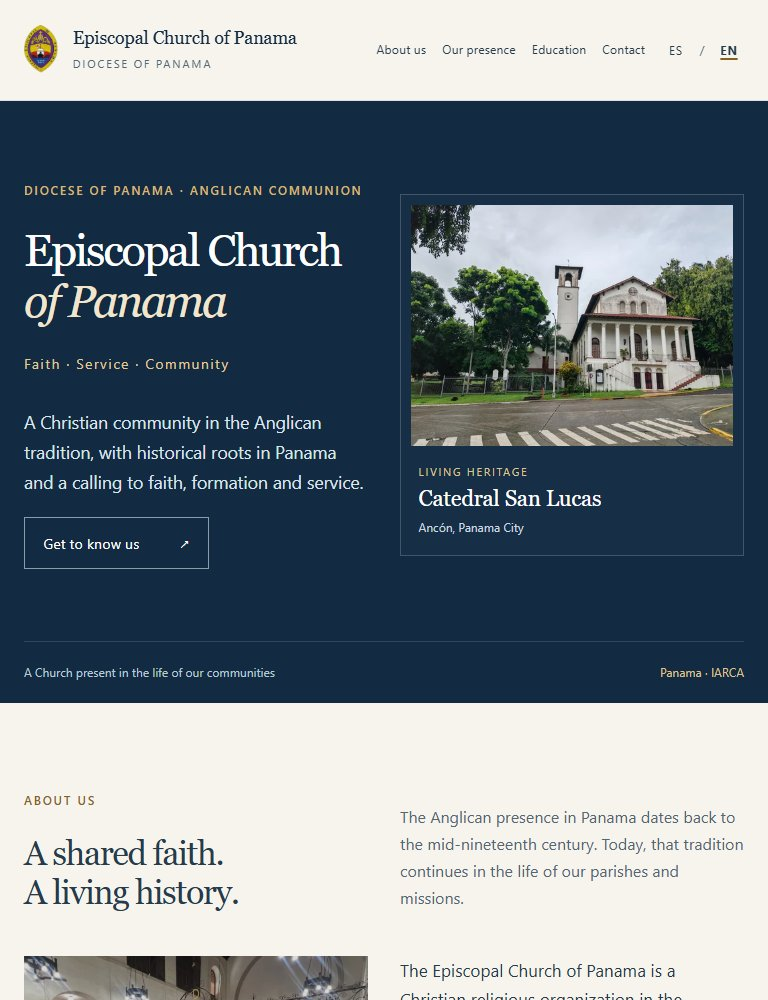
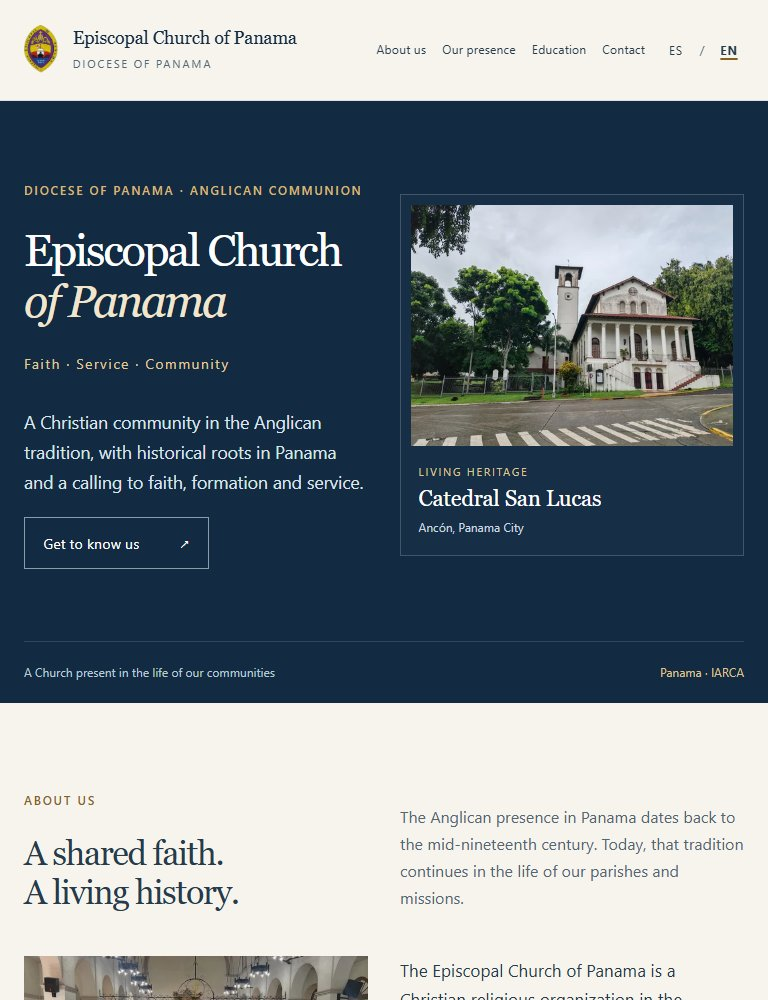
feat: refine diocesan imagery on homepage

Changed region(s): [[0.0312, 0.93, 0.5, 1.0]]

diff --git a/en/index.html b/en/index.html
@@ -53,7 +53,7 @@
       <div class="container">
         <div class="section-head"><div><span class="eyebrow">About us</span><h2 id="about-title">A shared faith.<br>A living history.</h2></div><p>The Anglican presence in Panama dates back to the mid-nineteenth century. Today, that tradition continues in the life of our parishes and missions.</p></div>
         <div class="about-grid"><figure class="about-photo">
-            <img src="../assets/img/web/catedral-san-lucas-interior-1280.webp" srcset="../assets/img/web/catedral-san-lucas-interior-640.webp 640w, ../assets/img/web/catedral-san-lucas-interior-1280.webp 1280w" sizes="(max-width: 760px) calc(100vw - 40px), (max-width: 1240px) 46vw, 548px" width="1280" height="960" alt="Interior of Catedral San Lucas, with arches, pews and people attending" loading="lazy" decoding="async">
+            <img src="../assets/img/web/catedral-san-lucas-interior-1280.webp" srcset="../assets/img/web/catedral-san-lucas-interior-640.webp 640w, ../assets/img/web/catedral-san-lucas-interior-1280.webp 1280w" sizes="(max-width: 760px) calc(100vw - 40px), (max-width: 1240px) 46vw, 548px" width="1280" height="724" alt="Procession between the pews of Catedral San Lucas towards the altar" loading="lazy" decoding="async">
             <figcaption>A place of faith and gathering · Catedral San Lucas</figcaption>
           </figure><div class="about-story"><div class="about-copy"><p>The Episcopal Church of Panama is a Christian religious organization in the Anglican tradition. Our identity is expressed through prayer, community life and pastoral care.</p><p>We are part of the Anglican Church of the Central American Region (IARCA), within the Anglican Communion.</p></div><aside class="affiliation" aria-labelledby="leadership-title"><p class="label">Episcopal leadership</p><h3 id="leadership-title">Serving the Diocese</h3><p class="leader">The Most Rev. Ramón Ovalle</p><p class="leader-title">Interim Bishop of the Episcopal Church of Panama<br>Primate of the Anglican Church of the Central American Region (IARCA)</p><p class="leader-note">Serving as Interim Bishop of Panama since April 2026.</p></aside></div></div>
       </div>
@@ -102,7 +102,7 @@
     </section>
 
     <section class="section community" id="community" aria-labelledby="community-title"><div class="container community-inner"><div><span class="eyebrow">Service to the community</span><h2 id="community-title">Walk together.<br>Share. Serve.</h2></div><p>Service grows out of the life of our communities. Through its parishes and missions, the Church offers pastoral care, formation and community support, strengthening the bonds between people.</p></div><div class="container community-gallery">
-        <figure><img src="../assets/img/web/encuentro-comunitario-1280.webp" srcset="../assets/img/web/encuentro-comunitario-640.webp 640w, ../assets/img/web/encuentro-comunitario-1280.webp 1280w" sizes="(max-width: 760px) calc(100vw - 40px), (max-width: 1240px) 46vw, 564px" width="1280" height="960" alt="People seated in a circle listen to a person standing in a room" loading="lazy" decoding="async"><figcaption>Community gathering</figcaption></figure>
+        <figure><img src="../assets/img/web/clero-diocesano-grupo-05-1280.webp" srcset="../assets/img/web/clero-diocesano-grupo-05-640.webp 640w, ../assets/img/web/clero-diocesano-grupo-05-1280.webp 1280w" sizes="(max-width: 760px) calc(100vw - 40px), (max-width: 1240px) 46vw, 564px" width="1280" height="960" alt="A group of clergy in liturgical vestments gathered in a sports hall" loading="lazy" decoding="async"><figcaption>Community gathering</figcaption></figure>
         <figure><img src="../assets/img/web/vida-diocesana-celebracion-1280.webp" srcset="../assets/img/web/vida-diocesana-celebracion-640.webp 640w, ../assets/img/web/vida-diocesana-celebracion-1280.webp 1280w" sizes="(max-width: 760px) calc(100vw - 40px), (max-width: 1240px) 46vw, 564px" width="1280" height="853" alt="People in liturgical vestments and attendees during a procession" loading="lazy" decoding="async"><figcaption>The life of our communities</figcaption></figure>
       </div>
     </section>

diff --git a/index.html b/index.html
@@ -65,7 +65,7 @@
         <div class="section-head"><div><span class="eyebrow">Quiénes somos</span><h2 id="about-title">Una fe compartida.<br>Una historia viva.</h2></div><p>La presencia anglicana en Panamá se remonta a mediados del siglo XIX. Hoy, esa tradición continúa en la vida de nuestras parroquias y misiones.</p></div>
         <div class="about-grid">
           <figure class="about-photo">
-            <img src="assets/img/web/catedral-san-lucas-interior-1280.webp" srcset="assets/img/web/catedral-san-lucas-interior-640.webp 640w, assets/img/web/catedral-san-lucas-interior-1280.webp 1280w" sizes="(max-width: 760px) calc(100vw - 40px), (max-width: 1240px) 46vw, 548px" width="1280" height="960" alt="Interior de la Catedral San Lucas, con arcos, bancas y asistentes" loading="lazy" decoding="async">
+            <img src="assets/img/web/catedral-san-lucas-interior-1280.webp" srcset="assets/img/web/catedral-san-lucas-interior-640.webp 640w, assets/img/web/catedral-san-lucas-interior-1280.webp 1280w" sizes="(max-width: 760px) calc(100vw - 40px), (max-width: 1240px) 46vw, 548px" width="1280" height="724" alt="Procesión entre las bancas de la Catedral San Lucas hacia el altar" loading="lazy" decoding="async">
             <figcaption>Un espacio de fe y encuentro · Catedral San Lucas</figcaption>
           </figure>
           <div class="about-story"><div class="about-copy"><p>La Iglesia Episcopal de Panamá es una organización religiosa cristiana de tradición anglicana. Nuestra identidad se expresa en la oración, la vida en comunidad y el acompañamiento pastoral.</p><p>Formamos parte de la Iglesia Anglicana de la Región Central de América (IARCA), dentro de la Comunión Anglicana.</p></div>
@@ -122,7 +122,7 @@
     <section class="section community" id="comunidad" aria-labelledby="community-title">
       <div class="container community-inner"><div><span class="eyebrow">Servicio a la comunidad</span><h2 id="community-title">Acompañar.<br>Compartir. Servir.</h2></div><p>El servicio nace de la vida de nuestras comunidades. A través de las parroquias y misiones, la Iglesia ofrece acompañamiento pastoral, formación y apoyo comunitario, fortaleciendo los vínculos entre las personas.</p></div>
     <div class="container community-gallery">
-        <figure><img src="assets/img/web/encuentro-comunitario-1280.webp" srcset="assets/img/web/encuentro-comunitario-640.webp 640w, assets/img/web/encuentro-comunitario-1280.webp 1280w" sizes="(max-width: 760px) calc(100vw - 40px), (max-width: 1240px) 46vw, 564px" width="1280" height="960" alt="Personas sentadas en círculo escuchan a una persona de pie en una sala" loading="lazy" decoding="async"><figcaption>Encuentro comunitario</figcaption></figure>
+        <figure><img src="assets/img/web/clero-diocesano-grupo-05-1280.webp" srcset="assets/img/web/clero-diocesano-grupo-05-640.webp 640w, assets/img/web/clero-diocesano-grupo-05-1280.webp 1280w" sizes="(max-width: 760px) calc(100vw - 40px), (max-width: 1240px) 46vw, 564px" width="1280" height="960" alt="Grupo de clero con vestiduras litúrgicas reunido en un recinto deportivo" loading="lazy" decoding="async"><figcaption>Encuentro comunitario</figcaption></figure>
         <figure><img src="assets/img/web/vida-diocesana-celebracion-1280.webp" srcset="assets/img/web/vida-diocesana-celebracion-640.webp 640w, assets/img/web/vida-diocesana-celebracion-1280.webp 1280w" sizes="(max-width: 760px) calc(100vw - 40px), (max-width: 1240px) 46vw, 564px" width="1280" height="853" alt="Personas con vestiduras litúrgicas y asistentes durante una procesión" loading="lazy" decoding="async"><figcaption>Vida de nuestras comunidades</figcaption></figure>
       </div>
     </section>

diff --git a/docs/curate_images.py b/docs/curate_images.py
@@ -48,11 +48,11 @@ for time, suffix, description, decision in facades:
 
 for old,new,description,origin,decision in [
 ('626449065_18556670014053081_5084294089189867489_n.jpg','interior-asamblea','Asistentes de pie en bancas, arcos y altar','Instagram oficial','respaldo'),
-('626723804_18556670092053081_6031592452908874287_n.jpg','interior-procesion','Procesión entre las bancas hacia el altar','Instagram oficial','respaldo'),
+('626723804_18556670092053081_6031592452908874287_n.jpg','interior-procesion','Procesión entre las bancas hacia el altar','Instagram oficial','usar'),
 ('627015037_18556670722053081_8310266187939695882_n.jpg','interior-liturgia','Celebrantes alrededor del altar durante la liturgia','Instagram oficial','respaldo'),
 ('628136157_1308438154645589_8403246888726780219_n.jpg','interior-estandartes','Asistentes con estandartes entre las bancas','Facebook oficial','respaldo'),
-('771892358_18614615908053081_8298882562867333621_n.jpg','interior-comunidad','Interior con arcos, luminarias, bancas y asistentes de pie','Instagram oficial','usar')]:
-    register('san-lucas-02',old,f'catedral-san-lucas-{new}.jpg',description,origin,decision,'Quiénes somos / historia / presencia', 'Sustituye el interior web eliminado; muestra arquitectura y comunidad' if decision=='usar' else 'Alternativa de vida litúrgica')
+('771892358_18614615908053081_8298882562867333621_n.jpg','interior-comunidad','Interior con arcos, luminarias, bancas y asistentes de pie','Instagram oficial','respaldo')]:
+    register('san-lucas-02',old,f'catedral-san-lucas-{new}.jpg',description,origin,decision,'Quiénes somos / historia / presencia', 'Selección final solicitada para Quiénes somos: procesión y vida litúrgica' if decision=='usar' else 'Alternativa de vida litúrgica')
 
 for old,new,description,origin,reason in [
 ('631571735_1311892790966792_276013069756403984_n.jpg','clero-diocesano-grupo-04.jpg','Grupo amplio de clero con vestiduras en un recinto deportivo','Facebook oficial','Grupo institucional amplio; fondo deportivo menos sobrio'),
@@ -61,7 +61,8 @@ for old,new,description,origin,reason in [
 ('clero-diocesano-01.jpg','clero-diocesano-01.jpg','Grupo de clero con vestiduras frente a una fachada','Facebook oficial','Se conserva como alternativa; sustituido en la galería por vida diocesana'),
 ('clero-diocesano-02.jpg','clero-diocesano-02.jpg','Grupo con vestiduras frente a una fachada de piedra y placa','Instagram oficial','Alternativa de grupo; no atribuir lugar o evento'),
 ('clero-diocesano-03.jpg','clero-diocesano-03.jpg','Grupo con vestiduras, incluida mitra, junto a una entrada con rejas','Facebook oficial','Mejor respaldo visual de liderazgo por cercanía y contexto litúrgico; sección textual conservada')]:
-    register('liderazgo',old,new,description,origin,'respaldo','Liderazgo / clero institucional',reason)
+    selected = new == 'clero-diocesano-grupo-05.jpg'
+    register('liderazgo',old,new,description,origin,'usar' if selected else 'respaldo','Servicio a la comunidad: imagen 1' if selected else 'Liderazgo / clero institucional','Selección final solicitada: presencia del clero en la portada; encuadre completo' if selected else reason)
 
 for old,new,description,origin,decision,reason in [
 ('808109881_1618323276671498_8252943004275149811_n.jpg','vida-diocesana-celebracion-01.jpg','Persona con mitra acompaña a asistentes durante una celebración','Facebook oficial','respaldo','Buen registro pastoral; escena más cerrada'),
@@ -69,21 +70,28 @@ for old,new,description,origin,decision,reason in [
 ('CLP-0930.jpg.jpeg','vida-diocesana-celebracion-03.jpg','Celebrante con vestiduras en un ambón junto a flores y banderas','archivo institucional','respaldo','Alternativa de celebración; menos representativa de comunidad'),
 ('celebracion-liturgica-01.jpg','celebracion-liturgica-01.jpg','Celebrante en ambón y asistentes en primer plano','Facebook oficial','respaldo','Alternativa de vida de fe'),
 ('encuentro-comunitario-01.jpg','encuentro-comunitario-01.jpg','Grupo reunido en sala con una persona de pie dirigiéndose al grupo','Facebook oficial','respaldo','Alternativa del encuentro'),
-('encuentro-comunitario-02.jpg','encuentro-comunitario-02.jpg','Personas sentadas en círculo escuchan a una persona de pie','Instagram oficial','usar','Se mantiene la imagen actual: encuadre limpio y comunidad visible'),
+('encuentro-comunitario-02.jpg','encuentro-comunitario-02.jpg','Personas sentadas en círculo escuchan a una persona de pie','Instagram oficial','respaldo','Conservada como respaldo; retirada de la home por selección final solicitada'),
 ('reunion-comunitaria-01.jpg','reunion-comunitaria-01.jpg','Personas sentadas alrededor de mesas en una sala','Facebook oficial','respaldo','Alternativa para formación y reuniones')]:
     register('vida-diocesana',old,new,description,origin,decision,'Vida diocesana / servicio / comunidad',reason)
 
 copies=[]
+previous_path=ROOT/'docs/verificacion-imagenes/curacion.json'
+previous=json.loads(previous_path.read_text(encoding='utf-8'))['generated'] if previous_path.exists() else []
+regenerated=0
 for folder,name,stem,widths in [
 ('catedral-san-lucas','catedral-san-lucas-fachada-principal.jpg','catedral-san-lucas-fachada',[320,480,768,1280]),
-('san-lucas-02','catedral-san-lucas-interior-comunidad.jpg','catedral-san-lucas-interior',[640,1280]),
+('san-lucas-02','catedral-san-lucas-interior-procesion.jpg','catedral-san-lucas-interior',[640,1280]),
+('liderazgo','clero-diocesano-grupo-05.jpg','clero-diocesano-grupo-05',[640,1280]),
 ('vida-diocesana','vida-diocesana-celebracion-02.jpg','vida-diocesana-celebracion',[640,1280])]:
     with Image.open(BASE/folder/name) as original:
         im=ImageOps.exif_transpose(original).convert('RGB')
         for width in widths:
             height=round(im.height*width/im.width)
             target=WEB/f'{stem}-{width}.webp'
-            im.resize((width,height),Image.Resampling.LANCZOS).save(target,'WEBP',quality=86,method=6)
+            matching=next((c for c in previous if c['name']==target.relative_to(ROOT).as_posix() and c['source']==f'{folder}/{name}'),None)
+            if not (matching and target.exists()):
+                im.resize((width,height),Image.Resampling.LANCZOS).save(target,'WEBP',quality=86,method=6)
+                regenerated += 1
             copies.append(dict(name=target.relative_to(ROOT).as_posix(),width=width,height=height,bytes=target.stat().st_size,source=f'{folder}/{name}'))
 
 # Retire derivatives of the removed web originals and the unused clergy image.
@@ -100,17 +108,18 @@ for language,relative in [('es','index.html'),('en','en/index.html')]:
             tag=re.sub(r'srcset="[^"]+"',f'srcset="'+', '.join(f'{prefix}assets/img/web/catedral-san-lucas-fachada-{w}.webp {w}w' for w in [320,480,768,1280])+'"',tag)
             tag=tag.replace('width="768" height="512"','width="1280" height="960"')
         elif 'catedral-san-lucas-interior-' in tag:
-            tag=tag.replace('interior-1080','interior-1280').replace('1080w','1280w').replace('width="1080" height="811"','width="1280" height="960"')
-        elif 'clero-diocesano-' in tag:
-            tag=tag.replace('clero-diocesano-960','vida-diocesana-celebracion-1280').replace('clero-diocesano-480','vida-diocesana-celebracion-640').replace('480w','640w').replace('960w','1280w').replace('width="960" height="720"','width="1280" height="853"')
-            tag=re.sub(r'alt="[^"]*"','alt="'+('Personas con vestiduras litúrgicas y asistentes durante una procesión' if language=='es' else 'People in liturgical vestments and attendees during a procession')+'"',tag)
+            tag=re.sub(r'width="[0-9]+" height="[0-9]+"','width="1280" height="724"',tag)
+            tag=re.sub(r'alt="[^"]*"','alt="'+('Procesión entre las bancas de la Catedral San Lucas hacia el altar' if language=='es' else 'Procession between the pews of Catedral San Lucas towards the altar')+'"',tag)
+        elif 'encuentro-comunitario-' in tag:
+            tag=tag.replace('encuentro-comunitario-','clero-diocesano-grupo-05-')
+            tag=re.sub(r'alt="[^"]*"','alt="'+('Grupo de clero con vestiduras litúrgicas reunido en un recinto deportivo' if language=='es' else 'A group of clergy in liturgical vestments gathered in a sports hall')+'"',tag)
         html=html.replace(match.group(),tag)
     p.write_text(html,encoding='utf-8',newline='\n')
 
 lines=['# Inventario de imágenes institucionales — 3 de octubre de 2026','',
 '34 originales revisados visualmente. Renombrados sin alterar sus bytes; dimensiones tras orientación EXIF. Tamaños en bytes. Ninguna imagen externa incorporada. Las procedencias sociales son **probables**, inferidas del patrón del nombre actual o del nombre histórico del inventario anterior; la oficialidad está confirmada por el usuario, pero no se dispone del enlace de cada publicación. No se identifican personas por apariencia.','',
 '## Selección editorial','',
-'- Hero desktop y móvil: `catedral-san-lucas/catedral-san-lucas-fachada-principal.jpg` (antes `IMG_20261003_072842.jpg`). Misma foto horizontal: torre y fachada completas, sin recortes; no hace falta una composición móvil diferente.','- Quiénes somos: `san-lucas-02/catedral-san-lucas-interior-comunidad.jpg`. Sustituye el interior web eliminado.','- Liderazgo: presentación textual conservada sin rediseño. Mejor respaldo: `liderazgo/clero-diocesano-03.jpg`. El encuentro de dos personas se conserva sin atribuir roles individuales no documentados.','- Comunidad: `vida-diocesana/encuentro-comunitario-02.jpg` y `vida-diocesana/vida-diocesana-celebracion-02.jpg`. Se conservan los pies de foto y copys aprobados.','- 4 usar, 25 respaldo, 5 no usar. «No usar» significa excluida del sitio, conservada en archivo; no se borran las fotos propias redundantes.','']
+'- Hero desktop y móvil: `catedral-san-lucas/catedral-san-lucas-fachada-principal.jpg` (antes `IMG_20261003_072842.jpg`). Misma foto horizontal: torre y fachada completas, sin recortes; no hace falta una composición móvil diferente.','- Quiénes somos: `san-lucas-02/catedral-san-lucas-interior-procesion.jpg`. Selección final solicitada: presencia del clero y vida litúrgica.','- Liderazgo: presentación textual conservada sin rediseño. Mejor respaldo: `liderazgo/clero-diocesano-03.jpg`. El encuentro de dos personas se conserva sin atribuir roles individuales no documentados.','- Comunidad: `liderazgo/clero-diocesano-grupo-05.jpg` (imagen 1) y `vida-diocesana/vida-diocesana-celebracion-02.jpg` (imagen 2). Se conservan los pies de foto y copys aprobados.','- Respaldo sin uso en la home: `liderazgo-encuentro-institucional.jpg`, `encuentro-comunitario-02.jpg` y `reunion-comunitaria-01.jpg`.','- 4 usar, 25 respaldo, 5 no usar. «No usar» significa excluida del sitio, conservada en archivo; no se borran las fotos propias redundantes.','']
 for folder in ['catedral-san-lucas','san-lucas-02','liderazgo','vida-diocesana']:
     items=[e for e in entries if e['folder']==folder]
     lines += [f'## {folder} — {len(items)} imágenes','',f'Carpeta: `assets/img/iglesia-episcopal/{folder}/`','',
@@ -119,7 +128,7 @@ for folder in ['catedral-san-lucas','san-lucas-02','liderazgo','vida-diocesana']
         orientation='horizontal' if e['width']>e['height'] else 'vertical'
         lines.append(f"| {e['original']} → **{e['name']}** | {e['width']} × {e['height']} | {orientation} | {e['bytes']} | {e['description']} | {e['origin']} | {e['use']} | **{e['decision']}**: {e['reason']} |")
     lines.append('')
-lines += ['## WebP de publicación','', 'Calidad 86, Lanczos, sin ampliar ni recortar. Originales intactos. Hero: `srcset` de 320/480/768/1280 px; dimensión intrínseca 4:3, prioridad alta. Resto: carga diferida, dimensiones explícitas. Sin cambios de CSS ni layout.','', '| Archivo | Dimensiones | Bytes | Fuente |','|---|---|---:|---|']
+lines += ['## WebP locales de publicación y respaldo','', 'Selección final: solo se regeneran los WebP cuyo original cambia. Las versiones anteriores de encuentro comunitario se conservan como respaldo sin referencia en la home. Calidad 86, Lanczos, sin ampliar ni recortar. Originales intactos. Hero: `srcset` de 320/480/768/1280 px; dimensión intrínseca 4:3, prioridad alta. Resto: carga diferida, dimensiones explícitas. Sin cambios de CSS ni layout.','', '| Archivo | Dimensiones | Bytes | Fuente |','|---|---|---:|---|']
 for p in sorted(WEB.glob('*.webp')):
     with Image.open(p) as im: width,height=im.size
     source=next((c['source'] for c in copies if Path(c['name']).name==p.name),'vida-diocesana/encuentro-comunitario-02.jpg' if 'encuentro' in p.name else 'assets/img/logo-iglesia-episcopal.png (sin pérdida)')
@@ -134,4 +143,4 @@ for line in prior.splitlines():
         lines.append(f'| {cells[1]} | {cells[2]} |')
 (ROOT/'docs/inventario-imagenes.md').write_text('\n'.join(lines)+'\n',encoding='utf-8')
 (ROOT/'docs/verificacion-imagenes/curacion.json').write_text(json.dumps({'originals':entries,'generated':copies},ensure_ascii=False,indent=2)+'\n',encoding='utf-8')
-print(f'{len(entries)} inventariadas; {sum(e["original"]!=e["name"] for e in entries)} renombradas; {len(copies)} WebP generados')
+print(f'{len(entries)} inventariadas; {sum(e["original"]!=e["name"] for e in entries)} renombradas; {regenerated} WebP generados o regenerados; {len(copies)} derivados de fotos usadas')

diff --git a/docs/inventario-imagenes.md b/docs/inventario-imagenes.md
@@ -5,9 +5,10 @@
 ## Selección editorial
 
 - Hero desktop y móvil: `catedral-san-lucas/catedral-san-lucas-fachada-principal.jpg` (antes `IMG_20261003_072842.jpg`). Misma foto horizontal: torre y fachada completas, sin recortes; no hace falta una composición móvil diferente.
-- Quiénes somos: `san-lucas-02/catedral-san-lucas-interior-comunidad.jpg`. Sustituye el interior web eliminado.
+- Quiénes somos: `san-lucas-02/catedral-san-lucas-interior-procesion.jpg`. Selección final solicitada: presencia del clero y vida litúrgica.
 - Liderazgo: presentación textual conservada sin rediseño. Mejor respaldo: `liderazgo/clero-diocesano-03.jpg`. El encuentro de dos personas se conserva sin atribuir roles individuales no documentados.
-- Comunidad: `vida-diocesana/encuentro-comunitario-02.jpg` y `vida-diocesana/vida-diocesana-celebracion-02.jpg`. Se conservan los pies de foto y copys aprobados.
+- Comunidad: `liderazgo/clero-diocesano-grupo-05.jpg` (imagen 1) y `vida-diocesana/vida-diocesana-celebracion-02.jpg` (imagen 2). Se conservan los pies de foto y copys aprobados.
+- Respaldo sin uso en la home: `liderazgo-encuentro-institucional.jpg`, `encuentro-comunitario-02.jpg` y `reunion-comunitaria-01.jpg`.
 - 4 usar, 25 respaldo, 5 no usar. «No usar» significa excluida del sitio, conservada en archivo; no se borran las fotos propias redundantes.
 
 ## catedral-san-lucas — 16 imágenes
@@ -40,10 +41,10 @@ Carpeta: `assets/img/iglesia-episcopal/san-lucas-02/`
 | Nombre anterior → actual | Dimensiones | Orientación | Bytes | Descripción objetiva | Procedencia probable | Uso sugerido | Decisión / motivo |
 |---|---|---|---:|---|---|---|---|
 | 626449065_18556670014053081_5084294089189867489_n.jpg → **catedral-san-lucas-interior-asamblea.jpg** | 1440 × 814 | horizontal | 174077 | Asistentes de pie en bancas, arcos y altar | Instagram oficial | Quiénes somos / historia / presencia | **respaldo**: Alternativa de vida litúrgica |
-| 626723804_18556670092053081_6031592452908874287_n.jpg → **catedral-san-lucas-interior-procesion.jpg** | 1440 × 814 | horizontal | 198035 | Procesión entre las bancas hacia el altar | Instagram oficial | Quiénes somos / historia / presencia | **respaldo**: Alternativa de vida litúrgica |
+| 626723804_18556670092053081_6031592452908874287_n.jpg → **catedral-san-lucas-interior-procesion.jpg** | 1440 × 814 | horizontal | 198035 | Procesión entre las bancas hacia el altar | Instagram oficial | Quiénes somos / historia / presencia | **usar**: Selección final solicitada para Quiénes somos: procesión y vida litúrgica |
 | 627015037_18556670722053081_8310266187939695882_n.jpg → **catedral-san-lucas-interior-liturgia.jpg** | 1440 × 814 | horizontal | 117574 | Celebrantes alrededor del altar durante la liturgia | Instagram oficial | Quiénes somos / historia / presencia | **respaldo**: Alternativa de vida litúrgica |
 | 628136157_1308438154645589_8403246888726780219_n.jpg → **catedral-san-lucas-interior-estandartes.jpg** | 1280 × 720 | horizontal | 138388 | Asistentes con estandartes entre las bancas | Facebook oficial | Quiénes somos / historia / presencia | **respaldo**: Alternativa de vida litúrgica |
-| 771892358_18614615908053081_8298882562867333621_n.jpg → **catedral-san-lucas-interior-comunidad.jpg** | 3024 × 2268 | horizontal | 529294 | Interior con arcos, luminarias, bancas y asistentes de pie | Instagram oficial | Quiénes somos / historia / presencia | **usar**: Sustituye el interior web eliminado; muestra arquitectura y comunidad |
+| 771892358_18614615908053081_8298882562867333621_n.jpg → **catedral-san-lucas-interior-comunidad.jpg** | 3024 × 2268 | horizontal | 529294 | Interior con arcos, luminarias, bancas y asistentes de pie | Instagram oficial | Quiénes somos / historia / presencia | **respaldo**: Alternativa de vida litúrgica |
 
 ## liderazgo — 6 imágenes
 
@@ -52,7 +53,7 @@ Carpeta: `assets/img/iglesia-episcopal/liderazgo/`
 | Nombre anterior → actual | Dimensiones | Orientación | Bytes | Descripción objetiva | Procedencia probable | Uso sugerido | Decisión / motivo |
 |---|---|---|---:|---|---|---|---|
 | 631571735_1311892790966792_276013069756403984_n.jpg → **clero-diocesano-grupo-04.jpg** | 2048 × 1536 | horizontal | 431308 | Grupo amplio de clero con vestiduras en un recinto deportivo | Facebook oficial | Liderazgo / clero institucional | **respaldo**: Grupo institucional amplio; fondo deportivo menos sobrio |
-| 631939145_1311894000966671_6856171340860385978_n.jpg → **clero-diocesano-grupo-05.jpg** | 2048 × 1536 | horizontal | 378703 | Grupo de clero en recinto deportivo; teléfono visible en primer plano | Facebook oficial | Liderazgo / clero institucional | **respaldo**: Respaldo documental; teléfono en primer plano |
+| 631939145_1311894000966671_6856171340860385978_n.jpg → **clero-diocesano-grupo-05.jpg** | 2048 × 1536 | horizontal | 378703 | Grupo de clero en recinto deportivo; teléfono visible en primer plano | Facebook oficial | Servicio a la comunidad: imagen 1 | **usar**: Selección final solicitada: presencia del clero en la portada; encuadre completo |
 | 680219048_18581680249053081_832038721497099236_n.jpg → **liderazgo-encuentro-institucional.jpg** | 695 × 926 | vertical | 85141 | Dos personas, una con vestiduras litúrgicas, junto a una entrada | Instagram oficial | Liderazgo / clero institucional | **respaldo**: Material institucional validado por el usuario; no se vinculan personas a roles individuales sin identificación documental |
 | clero-diocesano-01.jpg → **clero-diocesano-01.jpg** | 960 × 720 | horizontal | 91823 | Grupo de clero con vestiduras frente a una fachada | Facebook oficial | Liderazgo / clero institucional | **respaldo**: Se conserva como alternativa; sustituido en la galería por vida diocesana |
 | clero-diocesano-02.jpg → **clero-diocesano-02.jpg** | 1440 × 962 | horizontal | 270612 | Grupo con vestiduras frente a una fachada de piedra y placa | Instagram oficial | Liderazgo / clero institucional | **respaldo**: Alternativa de grupo; no atribuir lugar o evento |
@@ -69,12 +70,12 @@ Carpeta: `assets/img/iglesia-episcopal/vida-diocesana/`
 | CLP-0930.jpg.jpeg → **vida-diocesana-celebracion-03.jpg** | 1800 × 1200 | horizontal | 1666878 | Celebrante con vestiduras en un ambón junto a flores y banderas | archivo institucional | Vida diocesana / servicio / comunidad | **respaldo**: Alternativa de celebración; menos representativa de comunidad |
 | celebracion-liturgica-01.jpg → **celebracion-liturgica-01.jpg** | 1280 × 853 | horizontal | 84389 | Celebrante en ambón y asistentes en primer plano | Facebook oficial | Vida diocesana / servicio / comunidad | **respaldo**: Alternativa de vida de fe |
 | encuentro-comunitario-01.jpg → **encuentro-comunitario-01.jpg** | 2048 × 1536 | horizontal | 437219 | Grupo reunido en sala con una persona de pie dirigiéndose al grupo | Facebook oficial | Vida diocesana / servicio / comunidad | **respaldo**: Alternativa del encuentro |
-| encuentro-comunitario-02.jpg → **encuentro-comunitario-02.jpg** | 4032 × 3024 | horizontal | 696826 | Personas sentadas en círculo escuchan a una persona de pie | Instagram oficial | Vida diocesana / servicio / comunidad | **usar**: Se mantiene la imagen actual: encuadre limpio y comunidad visible |
+| encuentro-comunitario-02.jpg → **encuentro-comunitario-02.jpg** | 4032 × 3024 | horizontal | 696826 | Personas sentadas en círculo escuchan a una persona de pie | Instagram oficial | Vida diocesana / servicio / comunidad | **respaldo**: Conservada como respaldo; retirada de la home por selección final solicitada |
 | reunion-comunitaria-01.jpg → **reunion-comunitaria-01.jpg** | 1280 × 957 | horizontal | 142555 | Personas sentadas alrededor de mesas en una sala | Facebook oficial | Vida diocesana / servicio / comunidad | **respaldo**: Alternativa para formación y reuniones |
 
-## WebP de publicación
+## WebP locales de publicación y respaldo
 
-Calidad 86, Lanczos, sin ampliar ni recortar. Originales intactos. Hero: `srcset` de 320/480/768/1280 px; dimensión intrínseca 4:3, prioridad alta. Resto: carga diferida, dimensiones explícitas. Sin cambios de CSS ni layout.
+Selección final: solo se regeneran los WebP cuyo original cambia. Las versiones anteriores de encuentro comunitario se conservan como respaldo sin referencia en la home. Calidad 86, Lanczos, sin ampliar ni recortar. Originales intactos. Hero: `srcset` de 320/480/768/1280 px; dimensión intrínseca 4:3, prioridad alta. Resto: carga diferida, dimensiones explícitas. Sin cambios de CSS ni layout.
 
 | Archivo | Dimensiones | Bytes | Fuente |
 |---|---|---:|---|
@@ -82,8 +83,10 @@ Calidad 86, Lanczos, sin ampliar ni recortar. Originales intactos. Hero: `srcset
 | assets/img/web/catedral-san-lucas-fachada-320.webp | 320 × 240 | 21966 | catedral-san-lucas/catedral-san-lucas-fachada-principal.jpg |
 | assets/img/web/catedral-san-lucas-fachada-480.webp | 480 × 360 | 45662 | catedral-san-lucas/catedral-san-lucas-fachada-principal.jpg |
 | assets/img/web/catedral-san-lucas-fachada-768.webp | 768 × 576 | 113108 | catedral-san-lucas/catedral-san-lucas-fachada-principal.jpg |
-| assets/img/web/catedral-san-lucas-interior-1280.webp | 1280 × 960 | 141328 | san-lucas-02/catedral-san-lucas-interior-comunidad.jpg |
-| assets/img/web/catedral-san-lucas-interior-640.webp | 640 × 480 | 50312 | san-lucas-02/catedral-san-lucas-interior-comunidad.jpg |
+| assets/img/web/catedral-san-lucas-interior-1280.webp | 1280 × 724 | 160816 | san-lucas-02/catedral-san-lucas-interior-procesion.jpg |
+| assets/img/web/catedral-san-lucas-interior-640.webp | 640 × 362 | 53302 | san-lucas-02/catedral-san-lucas-interior-procesion.jpg |
+| assets/img/web/clero-diocesano-grupo-05-1280.webp | 1280 × 960 | 165264 | liderazgo/clero-diocesano-grupo-05.jpg |
+| assets/img/web/clero-diocesano-grupo-05-640.webp | 640 × 480 | 57572 | liderazgo/clero-diocesano-grupo-05.jpg |
 | assets/img/web/encuentro-comunitario-1280.webp | 1280 × 960 | 129776 | vida-diocesana/encuentro-comunitario-02.jpg |
 | assets/img/web/encuentro-comunitario-640.webp | 640 × 480 | 50310 | vida-diocesana/encuentro-comunitario-02.jpg |
 | assets/img/web/logo-iglesia-episcopal.webp | 423 × 590 | 245680 | assets/img/logo-iglesia-episcopal.png (sin pérdida) |
@@ -135,7 +138,7 @@ No se reintroducen `catedral-san-lucas-2-768x512.jpg`, `catedral-san-lucas-4.jpg
 
 ## Trazabilidad histórica conservada
 
-Nombres anteriores a esta tarea de los siete archivos ya semánticos; corresponden al inventario del commit `f95cc84`. Sus nombres actuales y bytes se mantienen.
+Nombres anteriores a esta tarea de los siete archivos ya semánticos, del inventario `f95cc84`. Sus nombres actuales y bytes se mantienen.
 
 | Nombre histórico | Ruta actual |
 |---|---|

diff --git a/docs/reporte-curacion-imagenes.md b/docs/reporte-curacion-imagenes.md
@@ -1,6 +1,6 @@
 # Reporte de curación institucional — 3 de octubre de 2026
 
-Actualización exclusivamente de imágenes y documentación. Sin rediseño, cambios de copys, DNS, GitHub Pages ni CNAME. No push.
+Selección final ajustada para dar más presencia al clero en la home. Actualización exclusivamente de imágenes y documentación. Sin rediseño, cambios de copys, DNS, GitHub Pages ni CNAME. Selección revisada y aprobada para publicación por el usuario.
 
 ## Inventario y decisiones
 
@@ -8,8 +8,8 @@ Actualización exclusivamente de imágenes y documentación. Sin rediseño, camb
 |---|---:|---:|---:|---:|---:|
 | catedral-san-lucas | 16 | 16 | 1 | 10 | 5 |
 | san-lucas-02 | 5 | 5 | 1 | 4 | 0 |
-| liderazgo | 6 | 3 | 0 | 6 | 0 |
-| vida-diocesana | 7 | 3 | 2 | 5 | 0 |
+| liderazgo | 6 | 3 | 1 | 5 | 0 |
+| vida-diocesana | 7 | 3 | 1 | 6 | 0 |
 | **Total** | **34** | **27** | **4** | **25** | **5** |
 
 La correspondencia completa anterior → actual, dimensiones, orientación, tamaño, procedencia probable, descripción, decisión y hashes de originales están en [inventario-imagenes.md](inventario-imagenes.md). Los siete nombres ya semánticos se mantienen, con su correspondencia histórica conservada. La oficialidad de las publicaciones sociales está confirmada por el usuario; la red concreta de cada archivo se registra como procedencia probable.
@@ -17,9 +17,11 @@ La correspondencia completa anterior → actual, dimensiones, orientación, tama
 ## Imágenes publicadas
 
 - Hero desktop **y móvil**: `catedral-san-lucas/catedral-san-lucas-fachada-principal.jpg`, antes `IMG_20261003_072842.jpg`, original propio 4064 × 3048. Misma composición horizontal completa; no requiere otra toma móvil. Se conserva el concepto «Patrimonio y Catedral» y los pies de foto aprobados.
-- Quiénes somos: `san-lucas-02/catedral-san-lucas-interior-comunidad.jpg`, antes `771892358_18614615908053081_8298882562867333621_n.jpg`. Interior actual con arquitectura y comunidad; sustituye la foto web eliminada.
-- Comunidad: se mantiene `vida-diocesana/encuentro-comunitario-02.jpg` y se añade `vida-diocesana/vida-diocesana-celebracion-02.jpg`, antes `CLP-0928.jpg.jpeg`, en el espacio visual ya existente.
+- Quiénes somos / About us: `san-lucas-02/catedral-san-lucas-interior-procesion.jpg`, antes `626723804_18556670092053081_6031592452908874287_n.jpg`. Sustituye la selección anterior interior-comunidad, conservada como respaldo.
+- Servicio a la comunidad / Service to the community: imagen 1 `liderazgo/clero-diocesano-grupo-05.jpg`; imagen 2 `vida-diocesana/vida-diocesana-celebracion-02.jpg`. Se mantienen la galería existente y sus textos aprobados; el texto alternativo describe cada nueva fotografía.
 - Liderazgo: se mantiene la sección textual. Mejor respaldo: `liderazgo/clero-diocesano-03.jpg`. El encuentro institucional de dos personas se conserva sin atribuir nombres ni roles individuales por apariencia.
+
+Sin uso en la home y conservadas como respaldo: `liderazgo-encuentro-institucional.jpg`, `encuentro-comunitario-02.jpg` y `reunion-comunitaria-01.jpg`.
 
 Los 25 respaldos se enumeran individualmente en el inventario. Los cinco excluidos del uso del sitio son las tomas propias antes terminadas en `072833`, `072921`, `072941`, `073047` y `073055`: respectivamente fachada-detalle, perspectiva-lateral-02, perspectiva-lateral-04, fachada-calle-vertical y fachada-jardin-vertical-03. Se conservan sus originales; son encuadres incompletos o variantes menos fuertes/redundantes.
 
@@ -27,15 +29,16 @@ Se respetan las cuatro fotografías web y la captura de liderazgo eliminadas ant
 
 ## Optimización y archivos
 
-Ocho WebP generados en `assets/img/web/`, calidad 86, sin ampliar ni recortar:
+Ajuste final: cuatro WebP preparados en `assets/img/web/`, calidad 86, sin ampliar ni recortar. Hero y celebración mantienen exactamente sus archivos anteriores:
 
-- `catedral-san-lucas-fachada-{320,480,768,1280}.webp`.
-- `catedral-san-lucas-interior-{640,1280}.webp`.
-- `vida-diocesana-celebracion-{640,1280}.webp`.
+- `catedral-san-lucas-interior-{640,1280}.webp`: regenerados desde interior-procesion, 640 × 362 y 1280 × 724.
+- `clero-diocesano-grupo-05-{640,1280}.webp`: nuevos, 640 × 480 y 1280 × 960.
+- Fachada: versiones existentes de 320/480/768/1280, intactas.
+- Celebración: versiones existentes de 640/1280, intactas.
 
-Tres sustituyen versiones existentes y cinco son nuevos. Se mantienen las dos versiones de encuentro comunitario y el logo sin pérdida. Los originales renombrados conservan sus bytes y hashes. Hero con prioridad alta y `srcset`; imágenes posteriores con carga diferida; todas tienen dimensiones explícitas. La vista previa social de ambos idiomas apunta a la nueva fachada local con dimensiones actualizadas.
+Dos sustituyen versiones existentes y dos son nuevos. Se mantienen las dos versiones de encuentro comunitario como respaldo sin uso en la home y el logo sin pérdida. Los originales renombrados conservan sus bytes y hashes. Hero con prioridad alta y `srcset`; imágenes posteriores con carga diferida; todas tienen dimensiones explícitas. La vista previa social de ambos idiomas apunta a la nueva fachada local con dimensiones actualizadas.
 
-Archivos afectados: `index.html`, `en/index.html`, `README.md`, `docs/inventario-imagenes.md`, imágenes originales y WebP. Se añaden este reporte, `docs/curate_images.py`, `docs/verify_images.cjs` y las evidencias en `docs/verificacion-imagenes/`. `assets/css/styles.css` y `assets/js/main.js` no cambian.
+Archivos afectados por este ajuste: `index.html`, `en/index.html`, `README.md` (recuento WebP), `docs/inventario-imagenes.md`, este reporte, `docs/curate_images.py`, cuatro WebP y las evidencias actualizadas en `docs/verificacion-imagenes/`. No se modifican los originales ni el script de verificación. `assets/css/styles.css` y `assets/js/main.js` no cambian.
 
 ## Validación
 
@@ -43,7 +46,7 @@ Diez comprobaciones en Edge mediante Playwright: ambos idiomas en **1440, 768, 3
 
 Revisión visual de capturas desktop y móvil, del resumen de los diez anchos y de la página completa: fachada y torre completas, encuadre sin recorte, ES y EN consistentes. Las imágenes respetan sus proporciones intrínsecas y reservan espacio durante la carga. Móvil usa 320 o 480 px a densidad 1×; 390 px a densidad 2× selecciona 768 px en lugar de 1280.
 
-Comprobación adicional: recursos y enlaces locales existentes, anclas válidas, texto institucional idéntico al commit inicial, 34 hashes de originales correctos, sin URLs localhost en las páginas y `git diff --check` correcto.
+Comprobación adicional: recursos y enlaces locales existentes, anclas válidas, texto institucional y estructura HTML idénticos a HEAD (4751351), salvo los atributos de las dos imágenes sustituidas, 34 hashes de originales correctos, sin URLs localhost en las páginas y `git diff --check` correcto.
 
 - [ES desktop completo](verificacion-imagenes/es-1440-completa.jpg)
 - [ES móvil completo](verificacion-imagenes/es-390-completa.jpg)
@@ -53,4 +56,4 @@ Comprobación adicional: recursos y enlaces locales existentes, anclas válidas,
 
[1 lines of base64/hex data omitted]
 
-Commit único solicitado: `feat: curate and update institutional imagery`. Su hash y el estado final se reportan al cerrar la tarea; no se hace push.
+Base publicada: `4751351` — `feat: curate and update institutional imagery`. Commit de este ajuste: `feat: refine diocesan imagery on homepage`. Commit y push autorizados tras la validación final. Las capturas enlazadas se mantienen actualizadas como documentación previamente versionada; no se añaden nuevos artefactos temporales pesados.

diff --git a/README.md b/README.md
@@ -66,7 +66,7 @@ assets/img/
     san-lucas-02/                5 fotografías institucionales del interior
     liderazgo/                   6 fotografías institucionales
     vida-diocesana/              7 fotografías de celebraciones y comunidad
-  web/                          10 WebP fotográficos y 1 logo WebP sin pérdida
+  web/                          12 WebP fotográficos y 1 logo WebP sin pérdida
 ```
 
 El inventario completo, la correspondencia entre nombres originales y finales,
